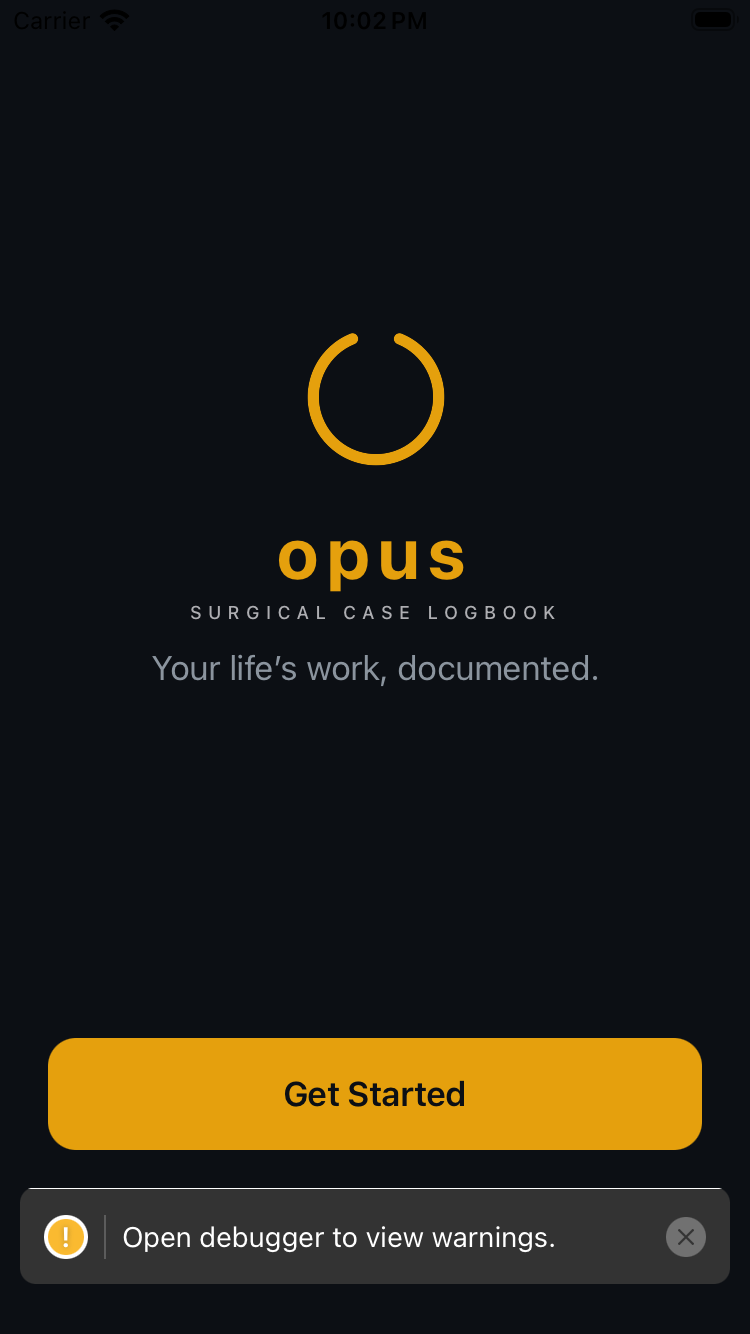
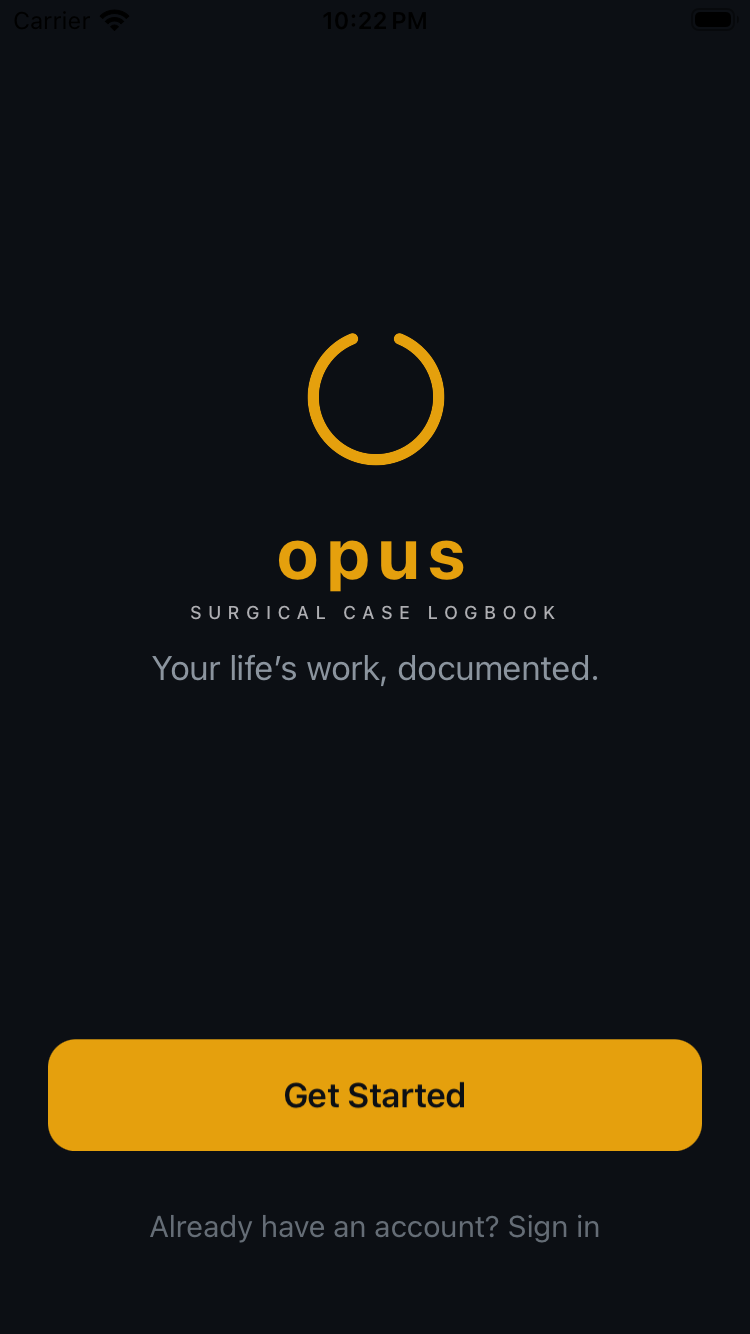
Add session-3 audit: Settings sub-screens, iPhone SE 3 pass, onboarding
Clusters 2/4/7 of the overnight audit:
- Settings sub-screens (EditProfile, ManageFacilities, SurgicalPreferences,
  TeamContacts, AppLock, SharedCases) — all 6 render clean, good empty states.
- iPhone SE 3 (375pt) pass on a freshly-created SE 3 sim — the existing
  Debug-iphonesimulator .app installs without a rebuild. Confirms + localises
  the session-2 nav-pill finding: short labels engage at <=375pt, so the
  ellipsis-truncation defect is specifically the 376-402pt band. SE 3 booted
  light, so this doubles as light-theme coverage.
- Onboarding pre-auth flow (Welcome + FeaturePager) captured on the fresh
  install. Post-auth steps need a non-onboarded account (gap, noted).
Also logs the PlanCase dead-route finding and the HeadNeckDiagnosisPicker
re-render / kAXError observation.

Changed region(s): [[0.0, 0.8913, 0.9813, 0.9835], [0.368, 0.7991, 0.6133, 0.8298]]

diff --git a/.claude/audit-2026-05-14/REPORT-session3.md b/.claude/audit-2026-05-14/REPORT-session3.md
@@ -108,6 +108,25 @@ exact-match branch resolves correctly before the keyword fallback can mis-fire. 
 **not** affected — their names don't contain a TNM keyword, so they fall through to the
 "lymphoedema" keyword and get ISL correctly.
 
+### 🟡 Dead route — `PlanCase` screen is registered but unreachable
+
+**Severity: Wrong (dead code / lost feature). Reported, not fixed — needs a judgment
+call on whether to wire it up or delete it.** `PlanCaseScreen` is a fully-implemented
+screen (`client/screens/PlanCaseScreen.tsx` — save logic, camera integration,
+`testID="screen-planCase"`) and is registered as the `PlanCase` route in
+`RootStackNavigator.tsx:893`. **Nothing in the codebase ever calls
+`navigation.navigate("PlanCase")`** — an exhaustive case-insensitive grep across
+`client/` + `server/` finds only the route definition + the screen's own file. The
+route is dead.
+
+Most likely explanation: "plan mode" was folded into the regular case form (there's a
+`caseForm.patient.toggle-planMode` toggle + `caseForm.planModeBanner` + the
+`PlanModeBanner` component from Phase 7), which **superseded** the standalone
+`PlanCaseScreen` — but the orphaned screen + route were never removed. The 2.6.0 Code
+Audit & Remediation pass removed several dead-code files; this one looks like it slipped
+through. Decision needed: delete `PlanCaseScreen.tsx` + the route, or (less likely) it
+was meant to stay reachable and lost its entry point in a refactor.
+
 ### 🟢 Possible perf — `HeadNeckDiagnosisPicker` is unusually `kAXErrorInvalidUIElement`-prone
 
 **Severity: low / needs-investigation. Reported only.** Every Maestro hierarchy query
@@ -178,6 +197,63 @@ locked designs, no Broken/Wrong layout issues *in the module chrome itself*. The
 substantive finding from this cluster is the **lymphoedema TNM-staging bug** (a
 data-correctness issue, not a layout one). This is a strong result for the densest
 custom UI in the app.
+
+## Settings sub-screens (Cluster 4) — all clean
+
+All 6 audited Settings sub-screens render cleanly on iPhone 17 / dark — on-brand, theme
+tokens, good empty states, no Broken/Wrong/Uncomfortable issues. The 6 flows passed
+first-try with no kAXError retries (Settings is a calmer surface than the case form).
+
+| Screen | Shots | Assessment |
+|---|---|---|
+| Edit Profile | `s3-settings-editprofile-01..02` | ✅ Avatar + "Add Photo", Personal Details (name, DOB, Sex segmented), Professional Details. Clean. |
+| My Hospitals (ManageFacilities) | `s3-settings-facilities-01..02` | ✅ "Add from curated list", country chip, SELECTED list with PRIMARY badge + "Make primary" + delete ×. Clean. |
+| Surgical Preferences | `s3-settings-surgprefs-01..02` | ✅ Microsurgery → Anticoagulation Protocol radio cards with sub-detail bullets. Clean, well-structured. |
+| My Operative Team (TeamContacts) | `s3-settings-teamcontacts-01..02` | ✅ "No team members yet" empty state (icon + copy) + FAB. Clean. |
+| App Lock (SetupAppLock) | `s3-settings-applock-01..02` | ✅ "Set Up PIN" row, lock icon, 6-digit-PIN copy, chevron. Clean. |
+| Shared Cases (SharedInbox) | `s3-settings-sharedcases-01..02` | ✅ "No shared cases yet" empty state. Clean. |
+
+## iPhone SE 3 / 375 pt pass (Cluster 2)
+
+Created a fresh `iPhone SE (3rd generation)` simulator
+(`87C2B2A6-7E6A-446E-BA2F-789B5DB9E74F`, iOS 26.4) and installed the **existing**
+`Debug-iphonesimulator` `Opus.app` on it — sim builds are not device-specific, so **no
+rebuild was needed** (this resolves session 2's "SE-3 needs its own native build"
+concern). The SE 3 booted in **light appearance**, so this pass doubles as light-theme
+coverage (Cluster 8).
+
+| SE 3 screen | Shot | Assessment |
+|---|---|---|
+| Dashboard (empty) | `s3-se3-01-dashboard` | ✅ Clean at 375 pt / light. Logo lockup, All(0) chip, inbox/search, empty state, FAB, tab bar — all fit. |
+| FAB speed dial | `s3-se3-02-fab` | ✅ |
+| Add Case grid | `s3-se3-03-addcase` | ✅ 2-col specialty grid fits at 375 pt. |
+| Case form — Patient | `s3-se3-04-caseform-patient` | ✅ Patient section fits; procedure date auto-fills today, facility auto-fills primary (Waikato). |
+| Case form — Case | `s3-se3-05-caseform-case` | ✅ |
+
+**SectionNavBar at 375 pt — the session-2 finding, re-checked here first as instructed:**
+At 375 pt the nav bar renders **`Patient · Team · Case · Op · Media · Outc`** — i.e.
+Phase 7's short-label breakpoint **does** engage at ≤375 pt (good — "Operative"→"Op",
+"Outcomes"→"Outc"). So the nav-pill defect is **specifically the 376–402 pt band**: there
+the full labels are used but don't fit, so they ellipsis-truncate to "Oper…"/"Outc…"
+(ugly). The fix is to widen the short-label breakpoint to cover iPhone 17 width too —
+**this confirms and localises the session-2 finding.** One thing to eyeball on a real
+SE 3: the last pill ("Outc") sits flush against the right screen edge in
+`s3-se3-04` — verify it isn't a hair clipped.
+
+## Onboarding flow (Cluster 7) — pre-auth captured on the fresh SE 3 install
+
+The fresh SE 3 install starts at the onboarding entry, so it doubled as the Cluster 7
+capture (375 pt / light): `s3-onboard-01-welcome-se3` (Welcome — "Your life's work,
+documented." + Get Started) → `s3-onboard-02..05` (FeaturePager — "Log any case in
+under 60 seconds", registry-superset slide w/ ISCP/FEBOPRAS/BSSH/RACS/NMBRA chips, etc.)
+→ `s3-onboard-06/07` (last FeaturePager slide + sign-in). All render cleanly.
+
+**Gap:** the *post-auth* onboarding steps (Categories → Training → Hospital → Privacy)
+were **not** reachable — `onboardingComplete` is read from the server `profile`
+(`AuthContext.tsx:540`), and the audit test account has it `true`, so a deep-link login
+jumps straight past them to the dashboard. Capturing those four needs a *fresh,
+not-yet-onboarded* server account (creating one hits the EmailSignup Strong-Password
+issue from session 1). Left for a future session.
 
 ## Coverage & gaps
 